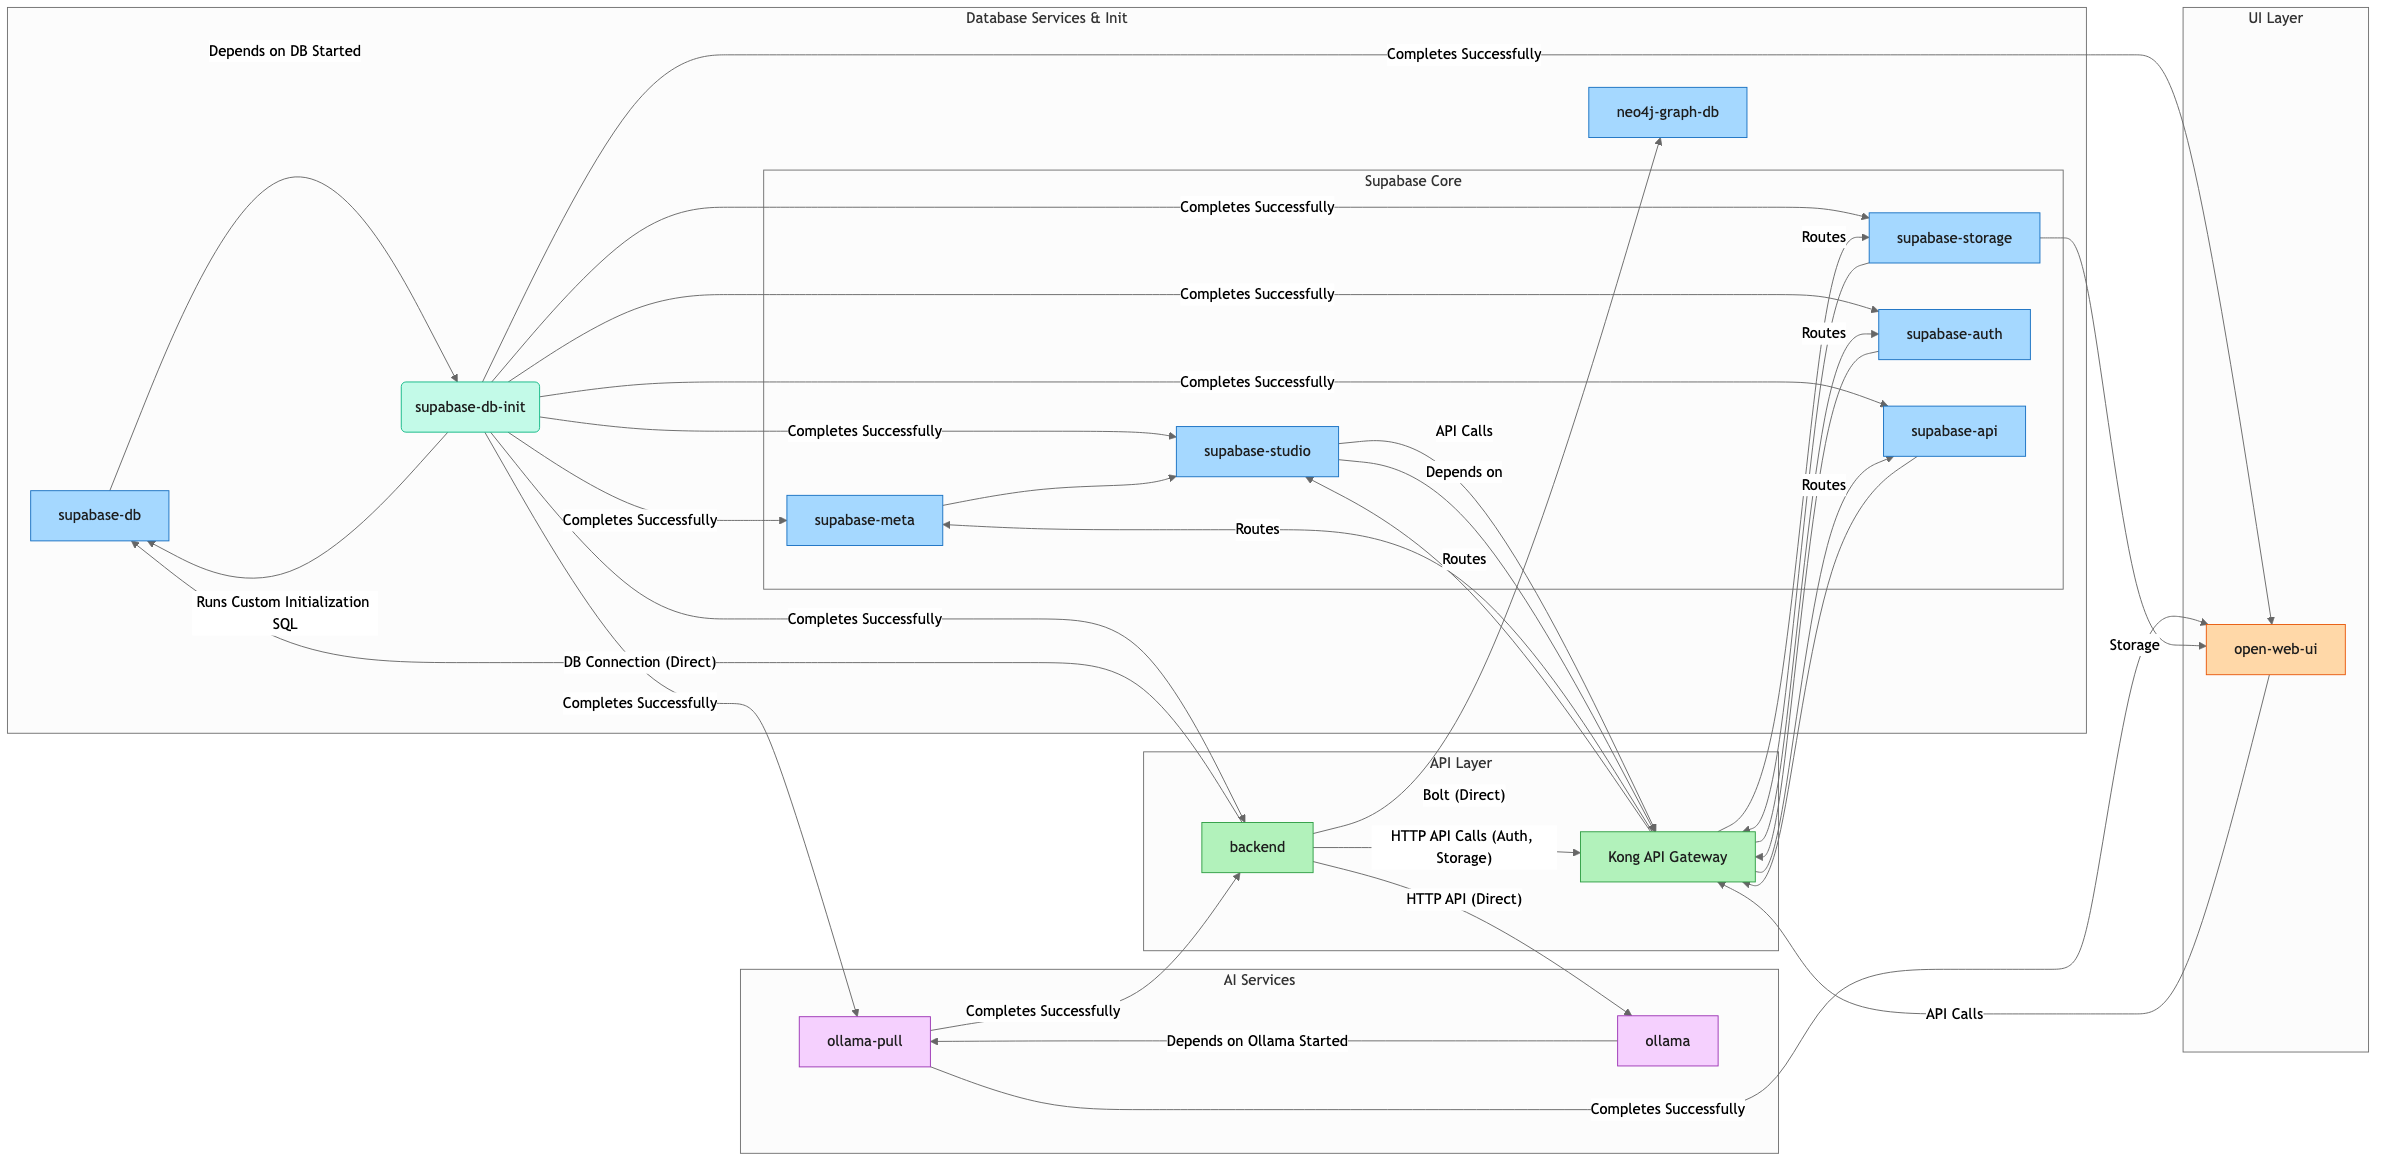
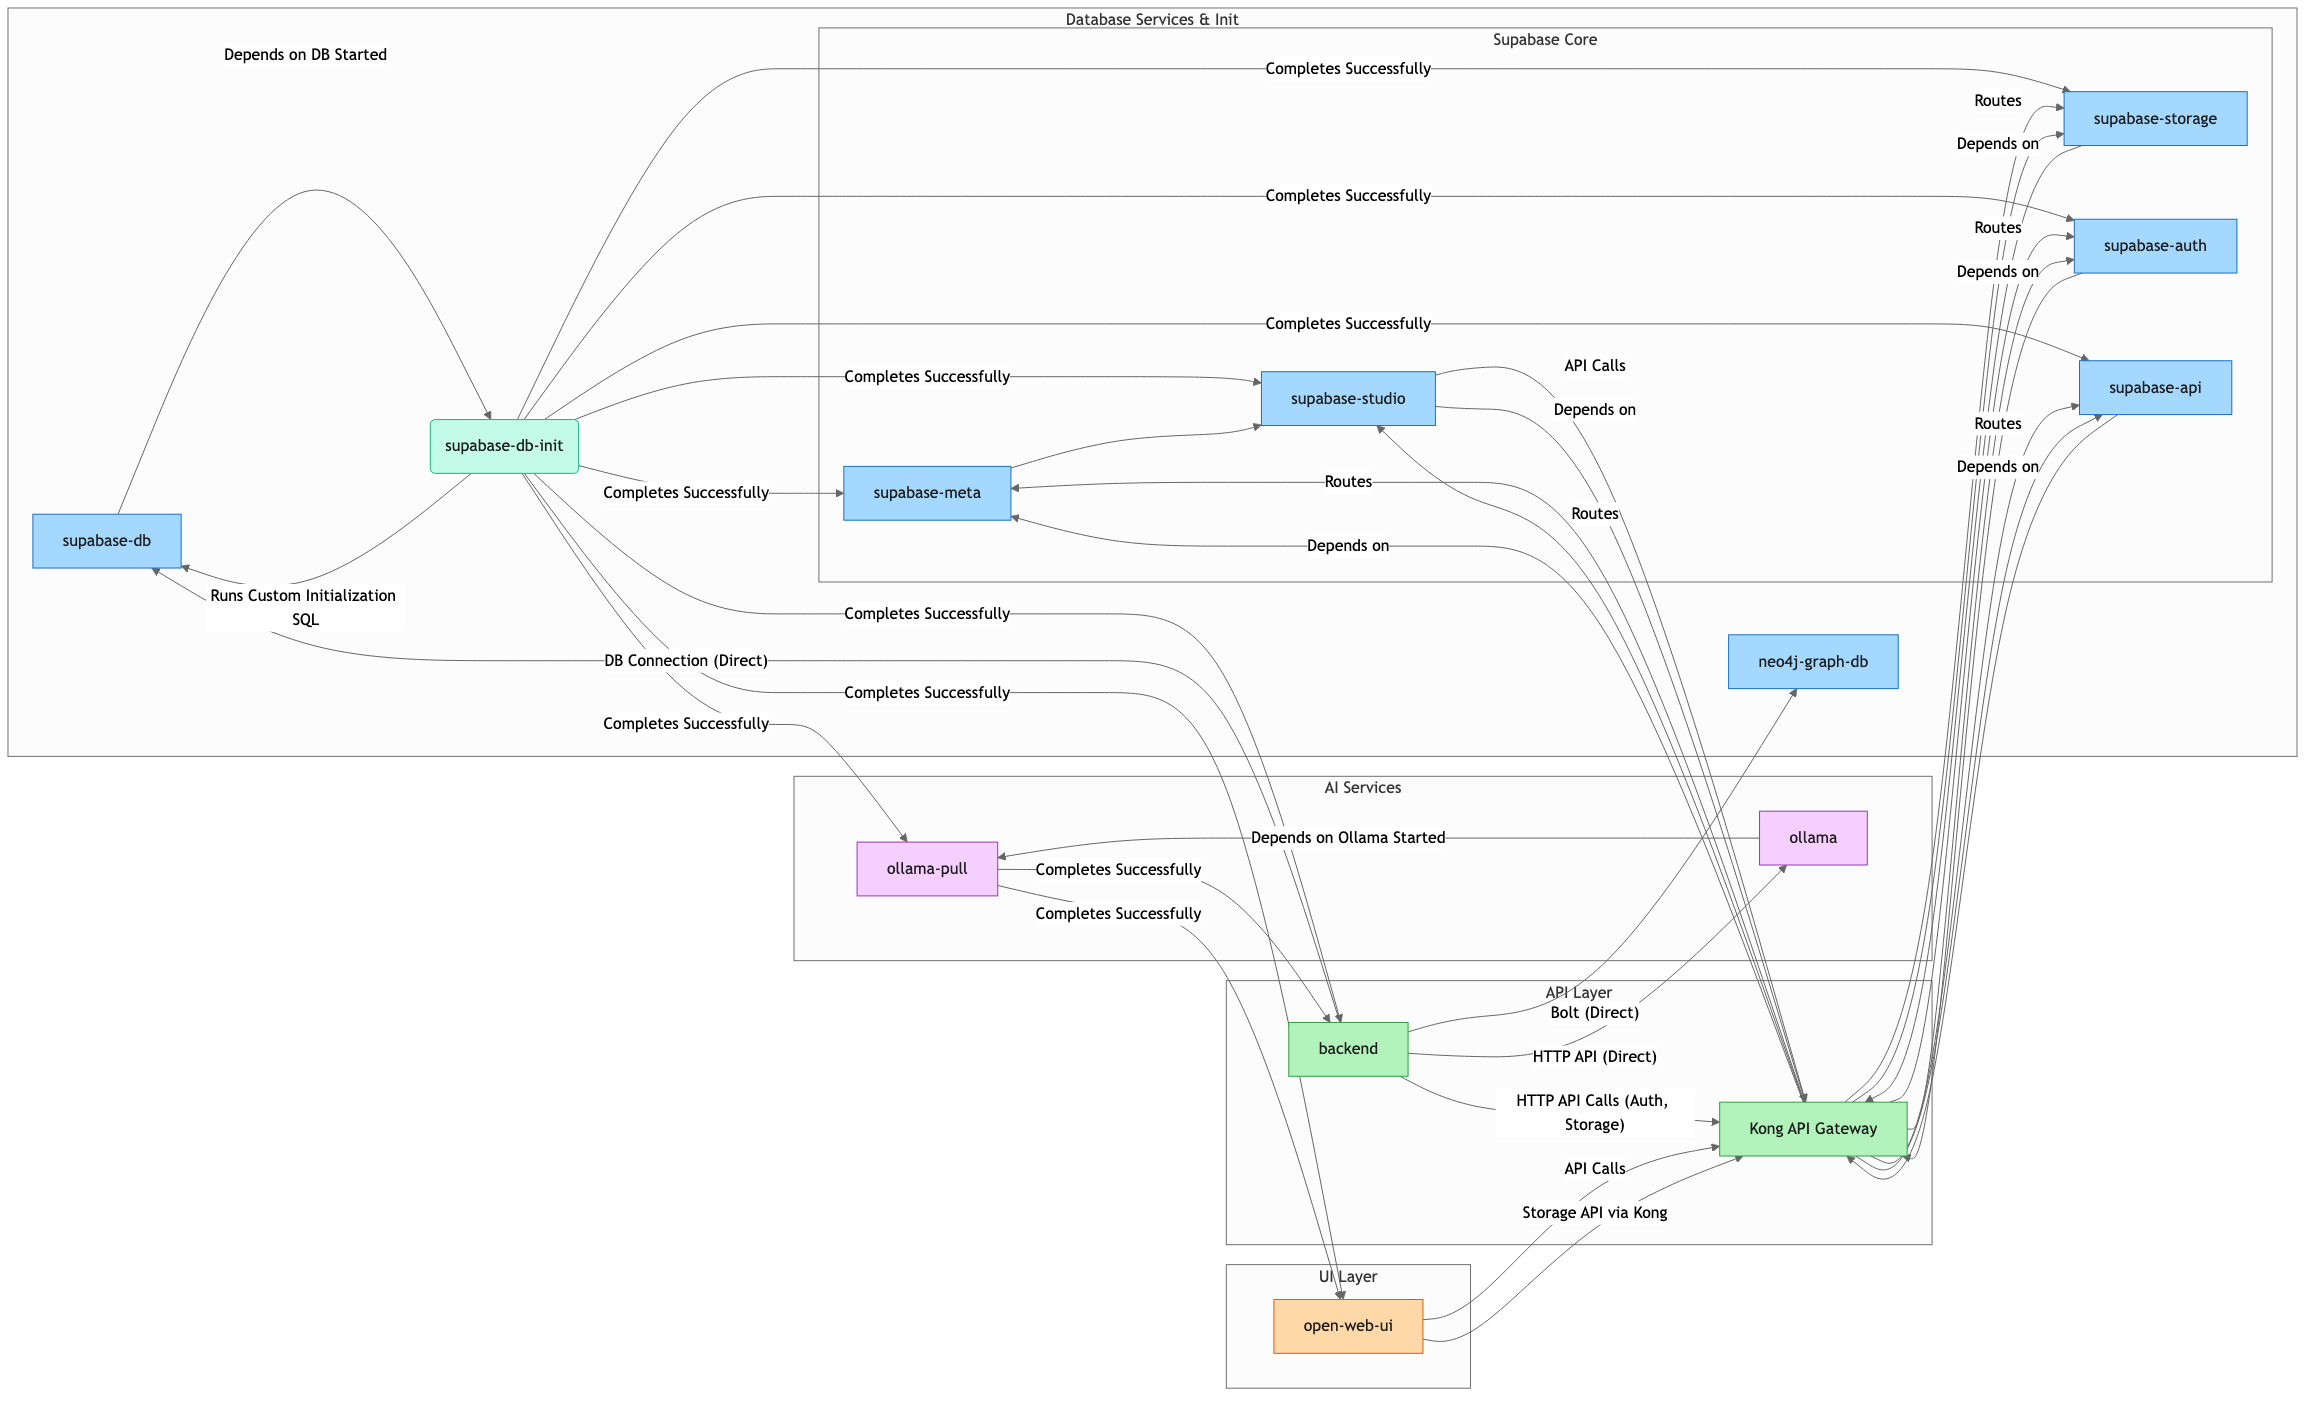
fixes documentation and arch diagram, and cleans up the main docker compose flavor

diff --git a/README.md b/README.md
@@ -273,7 +273,7 @@ The Supabase Auth service (GoTrue) provides user authentication and management:
 - **JWT Authentication**: Uses a secure JWT token system for authentication
 - **Features**: User registration, login, password recovery, email confirmation, and more
 
-#### 5.1.3. Supabase Storage Service
+#### 6.1.3. Supabase Storage Service
 
 The Supabase Storage service provides a secure file storage and management system:
 
@@ -289,7 +289,7 @@ The Supabase Storage service provides a secure file storage and management syste
   - `REGION`: Storage region identifier (default: local)
 - **Dependencies**: Requires Supabase DB and Auth services
 
-#### 5.1.4. Supabase API Service (PostgREST)
+#### 6.1.4. Supabase API Service (PostgREST)
 
 The Supabase API service (PostgREST) provides a RESTful API interface to the PostgreSQL database:
 
@@ -388,7 +388,7 @@ openssl rand -hex 32
    - In the "VERIFY SIGNATURE" section, enter your JWT secret
    - Copy the generated tokens to your .env file for SUPABASE_ANON_KEY and SUPABASE_SERVICE_KEY variables
 
-#### 5.1.4. Supabase Studio Dashboard
+#### 6.1.5. Supabase Studio Dashboard
 
 The Supabase Studio provides a modern web-based administration interface for PostgreSQL:
 
@@ -397,12 +397,12 @@ The Supabase Studio provides a modern web-based administration interface for Pos
 - **Features**: Table editor, SQL editor, database structure visualization, and more
 - **Authentication**: Integrated with the Auth service for user management
 
-### 5.2. Neo4j Graph Database (neo4j-graph-db)
+### 6.2. Neo4j Graph Database (neo4j-graph-db)
 
 The Neo4j Graph Database service (`neo4j-graph-db`) provides a robust graph database for storing and querying connected data:
 
 - **Built-in Dashboard Interface**: Available at http://localhost:${GRAPH_DB_DASHBOARD_PORT} (configured via `GRAPH_DB_DASHBOARD_PORT`)
-- **First-time Login**: 
+- **First-time Login**:
   1. When you first access the dashboard, you'll see the Neo4j Browser interface
   2. In the connection form, you'll see it's pre-filled with "neo4j://neo4j-graph-db:7687"
   3. **Change the connection URL to**: `neo4j://localhost:${GRAPH_DB_PORT}` or `bolt://localhost:${GRAPH_DB_PORT}`
@@ -414,27 +414,10 @@ The Neo4j Graph Database service (`neo4j-graph-db`) provides a robust graph data
   5. Click "Connect" button
 
 - **Application Connection**: Applications can connect to the database using the Bolt protocol:
-  - Bolt URL: `bolt://localhost:${GRAPH_DB_PORT}` 
+  - Bolt URL: `bolt://localhost:${GRAPH_DB_PORT}`
   - Username: `neo4j`
   - Password: Value of `GRAPH_DB_PASSWORD` from your `.env` file
 - **Persistent Storage**: Data is stored in a Docker volume for persistence between container restarts
-- **Backup and Restore Workflow**:
-  1. **Backing Up Data**: Create a snapshot while Neo4j is running:
-     ```bash
-     # Create a backup (will temporarily stop and restart Neo4j)
-     docker exec -it ${PROJECT_NAME}-neo4j-graph-db /usr/local/bin/backup.sh
-     ```
-     The backup will be stored in the `/snapshot` directory inside the container, which is mounted to the `./neo4j-graph-db/snapshot/` directory on your host machine.
-  
-  2. **Data Persistence**: By default, data persists in the Docker volume between restarts.
-  
-  3. **Manual Restoration**: To restore from a previous backup:
-     ```bash
-     # Restore from the latest backup
-     docker exec -it ${PROJECT_NAME}-neo4j-graph-db /usr/local/bin/restore.sh
-     ```
-     
-  4. **Important Note**: Automatic restoration at startup is now enabled by default. When the container starts, it will automatically restore from the latest backup if one is available. To disable this behavior, remove or rename the auto_restore.sh script in the Dockerfile.
 
 ## 7. AI Services
 
@@ -465,7 +448,7 @@ docker compose -f docker-compose.dev-ollama-local.yml up
 docker compose -f docker-compose.prod-gpu.yml up
 ```
 
-#### 6.1.2. Environment-Specific Configuration
+#### 7.1.2. Environment-Specific Configuration
 
 The Ollama service is configured for different environments using standalone Docker Compose files:
 
@@ -475,16 +458,21 @@ The Ollama service is configured for different environments using standalone Doc
 
 The configuration includes an `ollama-pull` service that automatically downloads required models from the Supabase database. It queries the `llms` table for models where `provider='ollama'` and `active=true`, then pulls each model via the Ollama API. This ensures the necessary models are always available for dependent services.
 
-### 6.2. Open Web UI
+### 7.2. Open Web UI
 
 The Open Web UI service provides a web interface for interacting with the Ollama models:
 
 - **Accessible**: Available at http://localhost:${OPEN_WEB_UI_PORT} (configured via `OPEN_WEB_UI_PORT`)
 - **Automatic Connection**: Automatically connects to the Ollama API endpoint
-- **Database Integration**: Uses the Supabase PostgreSQL database for storing conversations and settings
-- **Dependencies**: Depends on Ollama, Supabase DB, and Ollama Pull services
+- **Database Integration**: Uses the Supabase PostgreSQL database (`DATABASE_URL`) for storing conversations and settings.
+- **Storage Interaction**: Interacts with the Supabase Storage API (likely via the Kong API Gateway) for file operations.
+- **Dependencies**: Depends on Ollama, Supabase DB, Ollama Pull, and Supabase Storage services.
+- **Configuration**:
+    - `OLLAMA_BASE_URL`: URL for Ollama API.
+    - `DATABASE_URL`: PostgreSQL connection string for Supabase.
+    - `WEBUI_SECRET_KEY`: Secret key for Open Web UI.
 
-### 6.3. Backend API Service
+### 7.3. Backend API Service
 
 The Backend service provides a FastAPI-based REST API that connects to Supabase PostgreSQL, Neo4j Graph Database, and Ollama for AI model inference. It interacts with Supabase Storage via the Kong API Gateway. Its own API is also exposed through the Kong gateway.
 
@@ -502,7 +490,7 @@ The Backend service provides a FastAPI-based REST API that connects to Supabase 
   - Support for multiple LLM providers (OpenAI, Groq, etc.)
   - Dependency management with uv instead of pip/virtualenv
 
-#### 6.3.1. Configuration
+#### 7.3.1. Configuration
 
 The backend service is configured via environment variables:
 
@@ -514,7 +502,7 @@ The backend service is configured via environment variables:
 - `NEO4J_PASSWORD`: Password for Neo4j authentication (set via `GRAPH_DB_PASSWORD` in .env).
 - `BACKEND_PORT`: Port to expose the API (configured via `BACKEND_PORT`).
 
-#### 6.3.2. Dependencies and Interactions
+#### 7.3.2. Dependencies and Interactions
 
 The backend service interacts with several other services:
 
@@ -531,7 +519,7 @@ The backend service interacts with several other services:
 - Direct connections are used for non-HTTP protocols (PostgreSQL, Bolt) or for services not typically managed under the central API gateway policies (like Ollama in this setup). The Neo4j service is configured to advertise its service name (`neo4j-graph-db`) for reliable inter-container communication.
 - HTTP API interactions with core Supabase services (Auth, API, Storage) are routed through the Kong gateway (`kong-api-gateway`) to leverage centralized routing, potential policy enforcement (authentication, rate limiting - though auth plugins are currently commented out), and a unified access point.
 
-#### 6.3.3. Local Development
+#### 7.3.3. Local Development
 
 For local development outside of Docker:
 
@@ -666,12 +654,12 @@ This project is designed to work across different operating systems:
 - All shell scripts use LF line endings (Unix-style) even when checked out on Windows
 - Docker files and YAML configurations maintain consistent line endings
 
-### 10.2. Host Script Compatibility
+### 11.2. Host Script Compatibility
 
 The following scripts that run on the host machine (not in containers) have been made cross-platform compatible:
 
 - `start.sh` - For starting the stack with configurable ports and profiles
-- `stop.sh` - For stopping the stack and cleaning up resources
+- `stop.sh` - For stopping the stack and clean up resources
 - `generate_supabase_keys.sh` - For generating JWT keys
 - `docs/diagrams/generate_diagram.sh` - For generating architecture diagrams
 
@@ -680,11 +668,11 @@ These scripts use:
 - Cross-platform path handling
 - Platform detection for macOS vs Linux differences
 
-### 10.3. Container Scripts
+### 11.3. Container Scripts
 
 Scripts that run inside Docker containers (in the `neo4j-graph-db/scripts/` and `supabase/db/scripts/` directories) use standard Linux shell scripting as they always execute in a Linux environment regardless of the host operating system.
 
-### 10.4. Windows Compatibility Notes
+### 11.4. Windows Compatibility Notes
 
 When running on Windows:
 
@@ -692,6 +680,6 @@ When running on Windows:
 - Docker Desktop for Windows handles path translations automatically
 - Host scripts will detect Windows environments and provide appropriate guidance
 
-## 13. License
+## 12. License
 
 [MIT](LICENSE)
